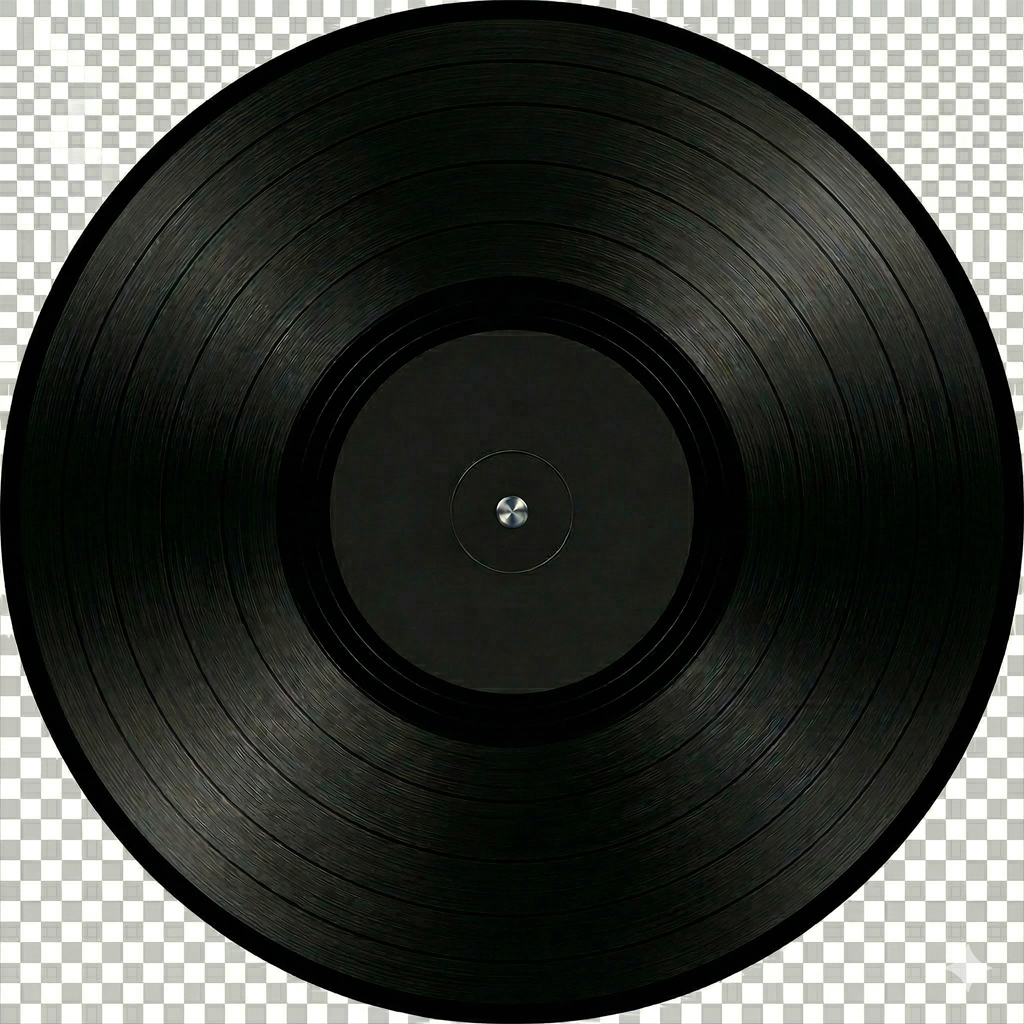
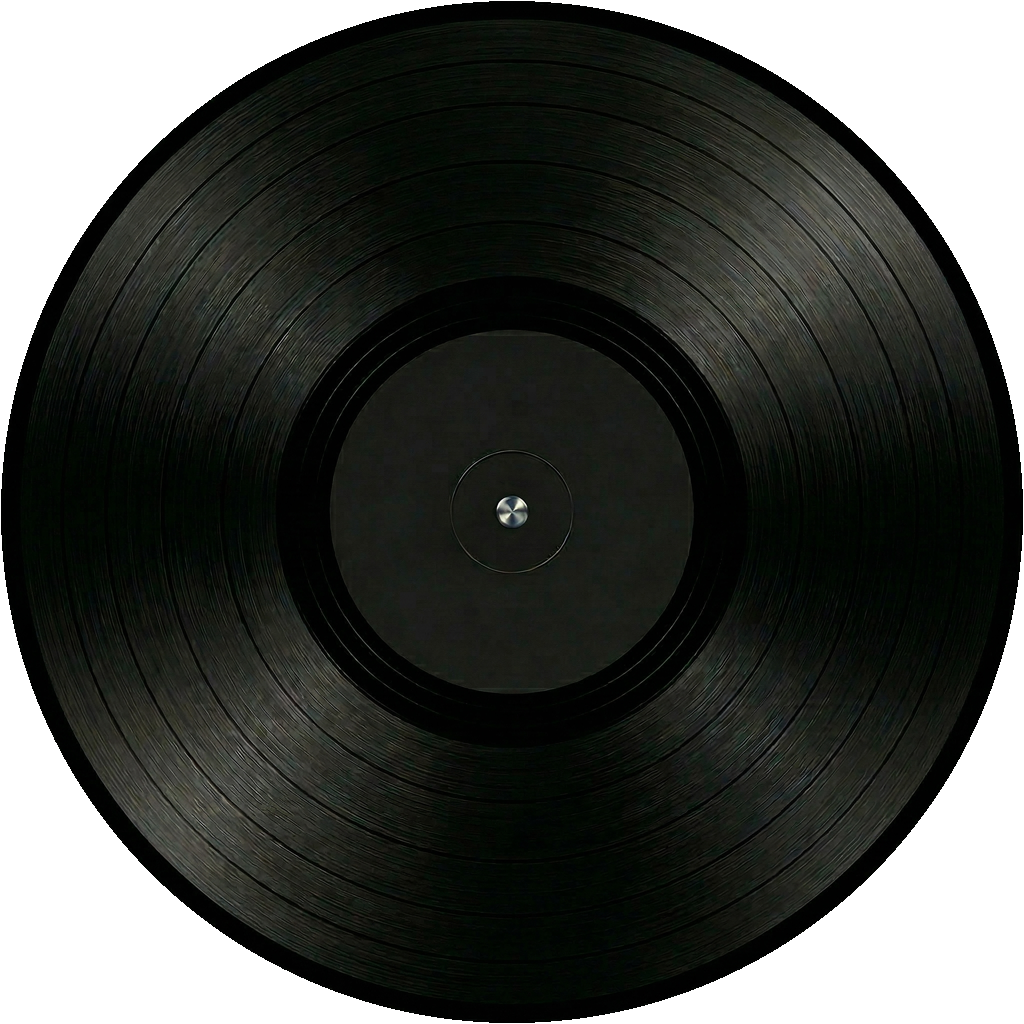
add script and cut vinyls to have transparency

diff --git a/res/Vinyl/circle_cut.py b/res/Vinyl/circle_cut.py
@@ -4,7 +4,11 @@ from PIL import Image, ImageDraw
 import sys
 
 
-def circular_alpha_cut(input_path: str, output_path: str | None = None) -> Path:
+def circular_alpha_cut(
+    input_path: str,
+    output_path: str | None = None,
+    extra_cut: int = 0,
+) -> Path:
     in_path = Path(input_path)
     img = Image.open(in_path).convert("RGBA")
     w, h = img.size
@@ -12,24 +16,30 @@ def circular_alpha_cut(input_path: str, output_path: str | None = None) -> Path:
     if w != h:
         raise ValueError(f"Image must be square. Got {w}x{h}.")
 
-    size = w
-    radius = size / 2.0
-    cx = cy = radius
+    if extra_cut < 0:
+        raise ValueError("extra_cut must be >= 0.")
 
-    # Build an 8-bit mask: white inside circle, black outside
+    size = w
+
+    # Shrink the preserved circle inward by extra_cut pixels on all sides
+    left = extra_cut
+    top = extra_cut
+    right = size - 1 - extra_cut
+    bottom = size - 1 - extra_cut
+
+    if left >= right or top >= bottom:
+        raise ValueError(
+            f"extra_cut={extra_cut} is too large for image size {size}x{size}."
+        )
+
+    # White inside circle, black outside
     mask = Image.new("L", (size, size), 0)
     draw = ImageDraw.Draw(mask)
+    draw.ellipse((left, top, right, bottom), fill=255)
 
-    # Strict inscribed circle touching the square edges
-    # Using exact bounds for the full image area
-    draw.ellipse((0, 0, size - 1, size - 1), fill=255)
-
-    # Apply mask as alpha
+    # Apply mask to alpha
     r, g, b, a = img.split()
-    new_alpha = Image.new("L", (size, size), 0)
-    new_alpha.paste(a)
-    new_alpha = Image.composite(new_alpha, Image.new("L", (size, size), 0), mask)
-
+    new_alpha = Image.composite(a, Image.new("L", (size, size), 0), mask)
     out = Image.merge("RGBA", (r, g, b, new_alpha))
 
     if output_path is None:
@@ -42,14 +52,21 @@ def circular_alpha_cut(input_path: str, output_path: str | None = None) -> Path:
 
 if __name__ == "__main__":
     if len(sys.argv) < 2:
-        print("Usage: python circle_cut.py input_image [output_image]")
+        print("Usage: python circle_cut.py input_image [output_image] [extra_cut_pixels]")
         sys.exit(1)
 
     input_file = sys.argv[1]
-    output_file = sys.argv[2] if len(sys.argv) > 2 else None
+    output_file = None
+    extra_cut = 0
+
+    if len(sys.argv) >= 3:
+        output_file = sys.argv[2]
+
+    if len(sys.argv) >= 4:
+        extra_cut = int(sys.argv[3])
 
     try:
-        result = circular_alpha_cut(input_file, output_file)
+        result = circular_alpha_cut(input_file, output_file, extra_cut)
         print(f"Saved: {result}")
     except Exception as e:
         print(f"Error: {e}")
